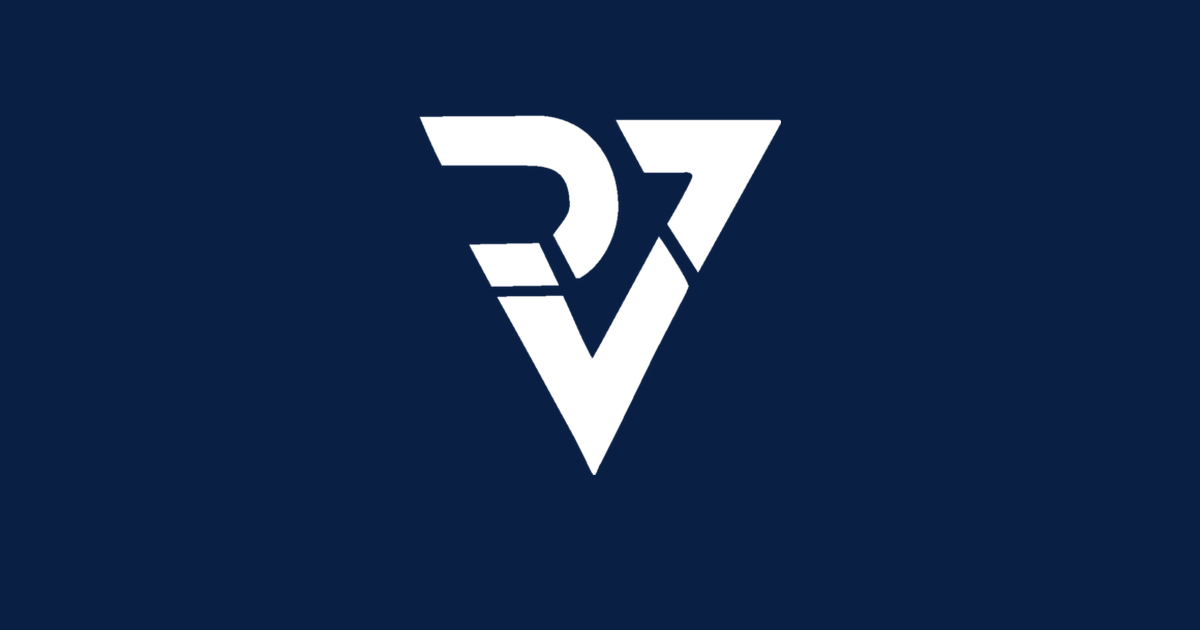
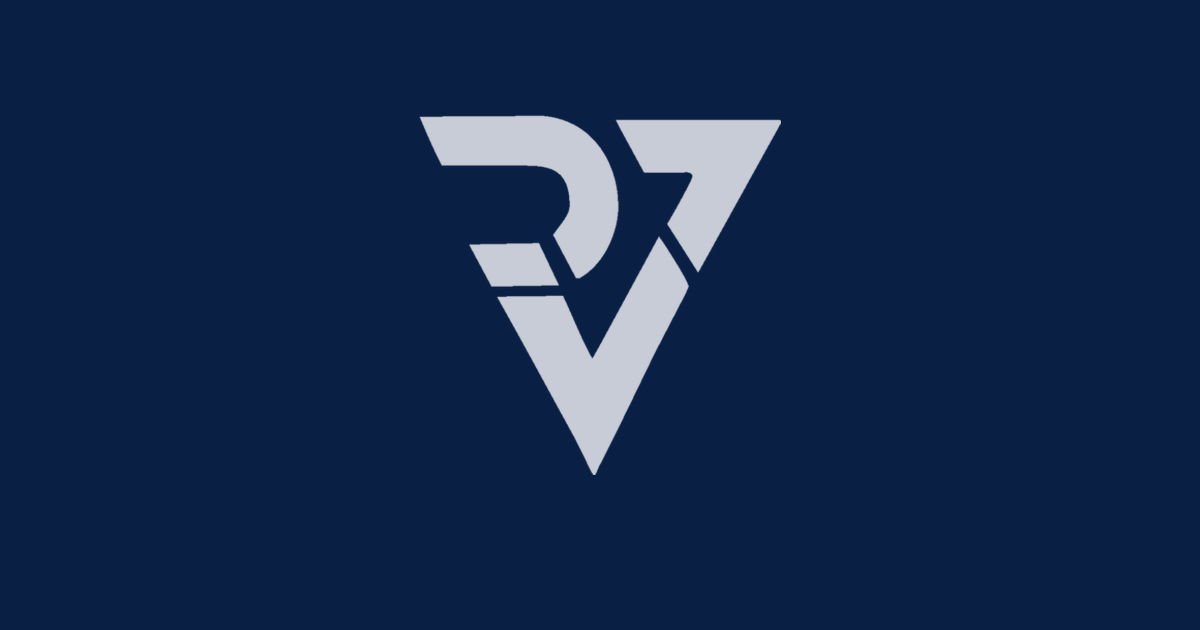
Match the social share image to the silver-on-navy branding; version its URL
social-share.png (the og:image / twitter:image for every page) still had
the white mark after the favicon/app-icon recolor — brought it in line
with the same navy (#0a1f44) / silver (#c7ccd6) treatment so every branded
surface matches.

The default og:image URL now carries a ?v=<mtime> query string: Facebook,
LinkedIn and WhatsApp cache previews by exact image URL, so without it any
future change to the share image would keep showing the old picture until
someone manually re-scraped it on each platform. Also added og:image:alt,
which the Facebook debugger flagged as empty.

Verified in the Facebook Sharing Debugger: re-scraped, tags parsed with the
new versioned URL, and the rendered link preview shows the silver-on-navy
logo.

Changed region(s): [[0.3392, 0.181, 0.6475, 0.754]]

diff --git a/includes/header.php b/includes/header.php
@@ -6,7 +6,14 @@
  */
 $user = current_user();
 $description = $pageDescription ?? 'Browse open positions and find your next role with ' . SITE_NAME . ', South Africa\'s trusted personnel and labour hiring specialists.';
-$ogImage = isset($pageImage) ? (str_starts_with($pageImage, 'http') ? $pageImage : base_url($pageImage)) : base_url('assets/img/social-share.png');
+// The default share image carries a version query string keyed to its
+// file mtime: Facebook/LinkedIn/WhatsApp cache og:image by exact URL, so
+// without this, any change to social-share.png would keep showing the old
+// picture until someone manually re-scraped it on every platform.
+$shareImageVersion = @filemtime(__DIR__ . '/../assets/img/social-share.png') ?: 1;
+$ogImage = isset($pageImage)
+    ? (str_starts_with($pageImage, 'http') ? $pageImage : base_url($pageImage))
+    : base_url('assets/img/social-share.png') . '?v=' . $shareImageVersion;
 $canonical = base_url(ltrim($_SERVER['REQUEST_URI'] ?? '', '/'));
 ?>
 <!DOCTYPE html>
@@ -67,6 +74,7 @@ $canonical = base_url(ltrim($_SERVER['REQUEST_URI'] ?? '', '/'));
     <?php if (!isset($pageImage)): ?>
     <meta property="og:image:width" content="1200">
     <meta property="og:image:height" content="630">
+    <meta property="og:image:alt" content="<?= h(SITE_NAME) ?> logo">
     <?php endif; ?>
     <meta name="twitter:card" content="summary_large_image">
     <meta name="twitter:title" content="<?= h($pageTitle ?? SITE_NAME) ?>">
